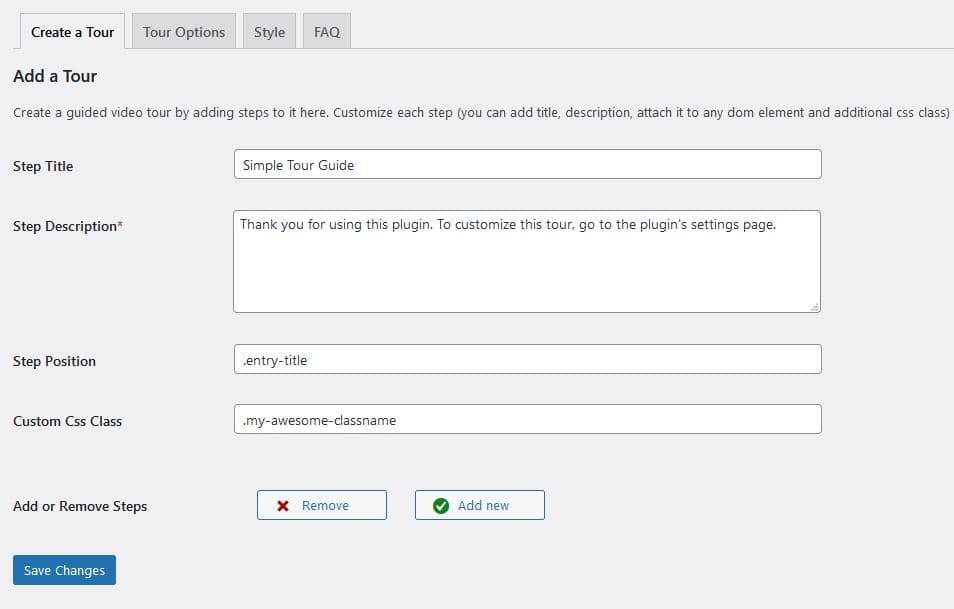
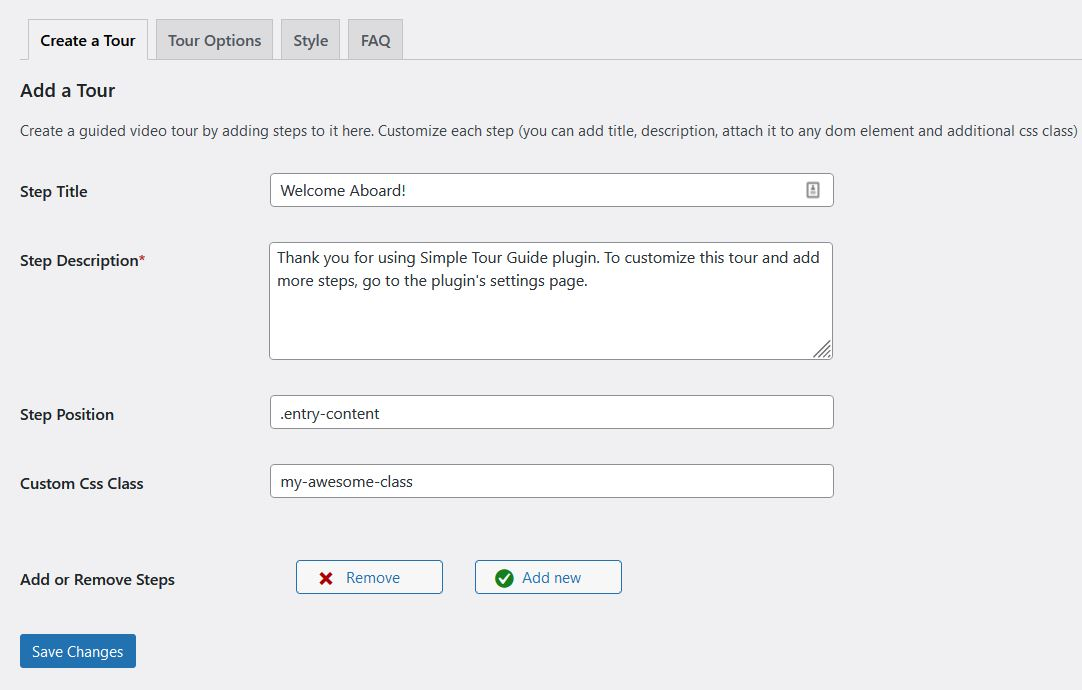
update content

diff --git a/post/create-tour-guide-in-wordpress-with-shepherd.js/index.html b/post/create-tour-guide-in-wordpress-with-shepherd.js/index.html
@@ -19,7 +19,7 @@
 "headline":"Two Ways to Add a Tour Guide in WordPress (With and Without a Plugin)",
 "description":"In this tutorial I will show you how to integrate Shepherd.js in WordPress to create an interactive user intro tour.",
 "datePublished":"2021-04-18 19:17:04 &#43;0300 EEST",
-"wordCount": "1182",
+"wordCount": "1347",
 "publisher": {
 "@type": "Website",
 "name": "Yonkov.github.io"
@@ -183,19 +183,23 @@ A step-by-step user intro tour is a great way to enhance your app&rsquo;s user e
 
 <h3 id="how-to-add-a-guided-tour-to-wordpress-with-a-plugin">How to add a Guided Tour to WordPress with a Plugin</h3>
 
-<p>To make our lives easier, I created <a href="https://wordpress.org/plugins/simple-tour-guide/">Simple Tour Guide</a> - a lightweight and easy to use plugin that integrates Shepherd.js to WordPress with a single click. With Simple tour guide, creating an interactive user guide feels like a breeze. You can add as many steps as you want, choose on which pages to display the tour and even add a progress bar to display tour progress. You also have the setting to display the tour only once, instead of displaying the tour on every page reload. There are also options to change the default styles of the steps. All of this is done from a friendly admin interface, so you do not have to write a single line of code. However, if you wish, you can also customize the steps even beyond the included options, by assigning additional css classes to the steps - by writing custom css in Appearance =&gt; Customize =&gt; Additional css tab. There are no restrictions or any hidden costs - this plugin is 100% free and open source.</p>
+<p>The most convenient way to create an intro tour is by using <a href="https://wordpress.org/plugins/simple-tour-guide/">Simple Tour Guide</a> - a lightweight and easy-to-use plugin that integrates Shepherd.js to WordPress with a single click. With Simple Tour Guide, creating an interactive user guide feels like a breeze. You can add as many steps as you want, choose on which pages to display the tour and even add a progress bar to display tour progress. You also have the setting to display the tour only once, instead of displaying the tour on every page reload. There are also options to change the default styles of the steps, as well as additional customization options. All of this is done from a friendly admin interface, so you do not have to write a single line of code. There are no restrictions or any hidden costs - this plugin is 100% free and open source.</p>
 
 <p><img src="../../images/stg-1.jpg" alt="add steps in the WordPress admin" /></p>
 
 <p><strong>Image One: Add tour steps</strong>.</p>
 
-<p>You can add as many steps as you want directly from the WordPress admin. Link the step to any page element and assign custom css class to it for additional customization.</p>
+<p>Install the plugin from the admin dashboard =&gt; plugins =&gt; add new, then go to the Settings =&gt; Simple Tour Guide and customize accordingly. You can add as many steps as you want directly from the WordPress admin. Link the step to any page element and assign custom css class to it for additional customization (optional).</p>
 
 <p><img src="../../images/stg-2.jpg" alt="show tour on the site frontend" /></p>
 
 <p><strong>Image Two: Show the Tour on the Site Frontend</strong>.</p>
 
-<p>This is how the step will appear on the site frontend. Use the &ldquo;Style&rdquo; tab from the plugin settings to customize the progress bar and change the color of the buttons. For more customization options, assign additonal classnames via the &ldquo;Create a Tour&rdquo; tab and add your css in the theme customizer (Appearance =&gt; Customize =&gt; Additional css tab)</p>
+<p>This is how the step will appear on the site frontend. To link a step to a paticular page element, you need to <a href="https://youtu.be/db83PCnPiNM">find out the element&rsquo;s selector</a>. Visit the webpage you want to add the tour, right click on the element you want to target, then click &ldquo;inspect&rdquo;. This will open the browser&rsquo;s dev tools.  Write down the element selector. Id, classname and tagname will all work, as long as you paste them in the plugin&rsquo;s settings page in the following format: #id, .classname, tagname. If you do not assign an element to a particular step, this is also fine, the step will appear in the middle of the screen.</p>
+
+<p>Use the &ldquo;Style&rdquo; tab from the plugin settings to customize the progress bar and change the color of the buttons. For more customization options, assign an additonal classname to a specific step via the &ldquo;Create a Tour&rdquo; tab (or use the <code>.stg</code> classname to target all the steps) and add your css in the theme customizer (Appearance =&gt; Customize =&gt; Additional css tab).</p>
+
+<p>To show te tour on a particular page only, e.g. &ldquo;Our Services&rdquo;, go the page editor screen, add a shortcode block and paste the <code>[stg_kef]</code> shortcode. You also need to go to plugin&rsquo;s settings page =&gt; tour options tab and remove the tick from the &ldquo;Show the tour on all pages&rdquo; field.</p>
 
 <script async src="//pagead2.googlesyndication.com/pagead/js/adsbygoogle.js"></script>
 <ins class="adsbygoogle"
